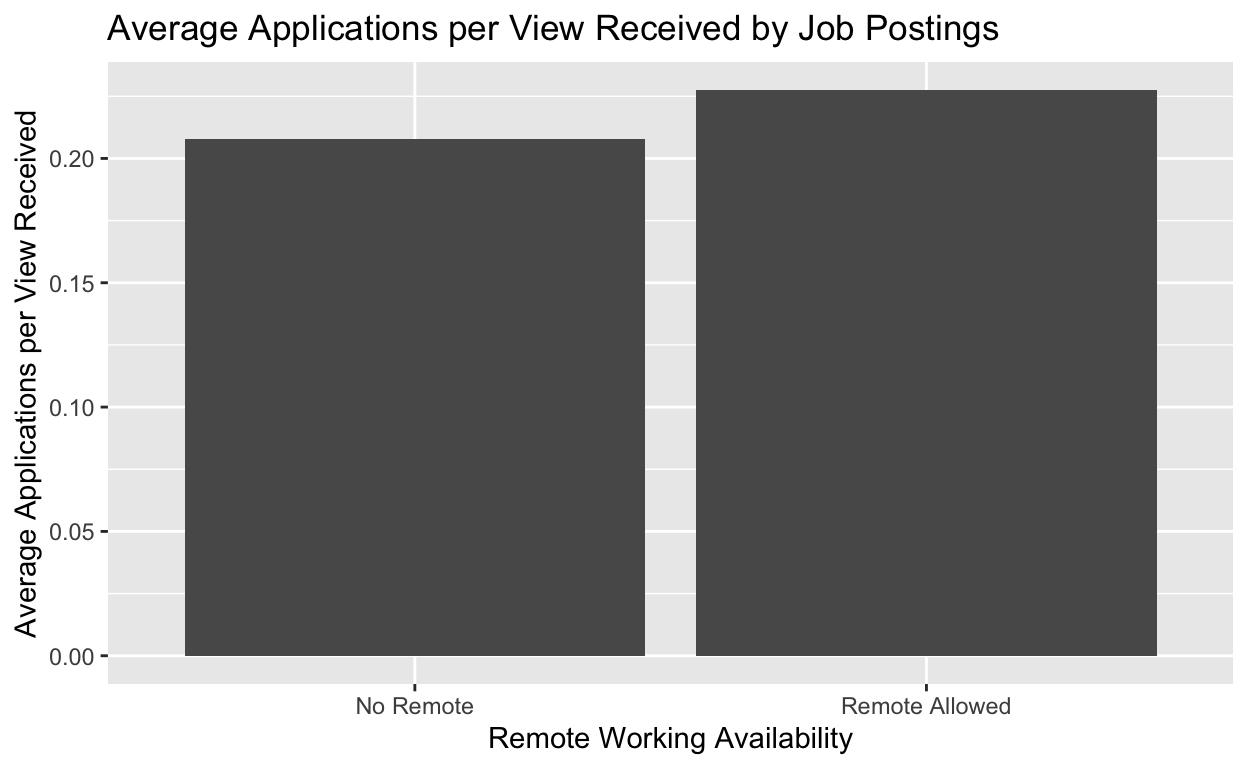
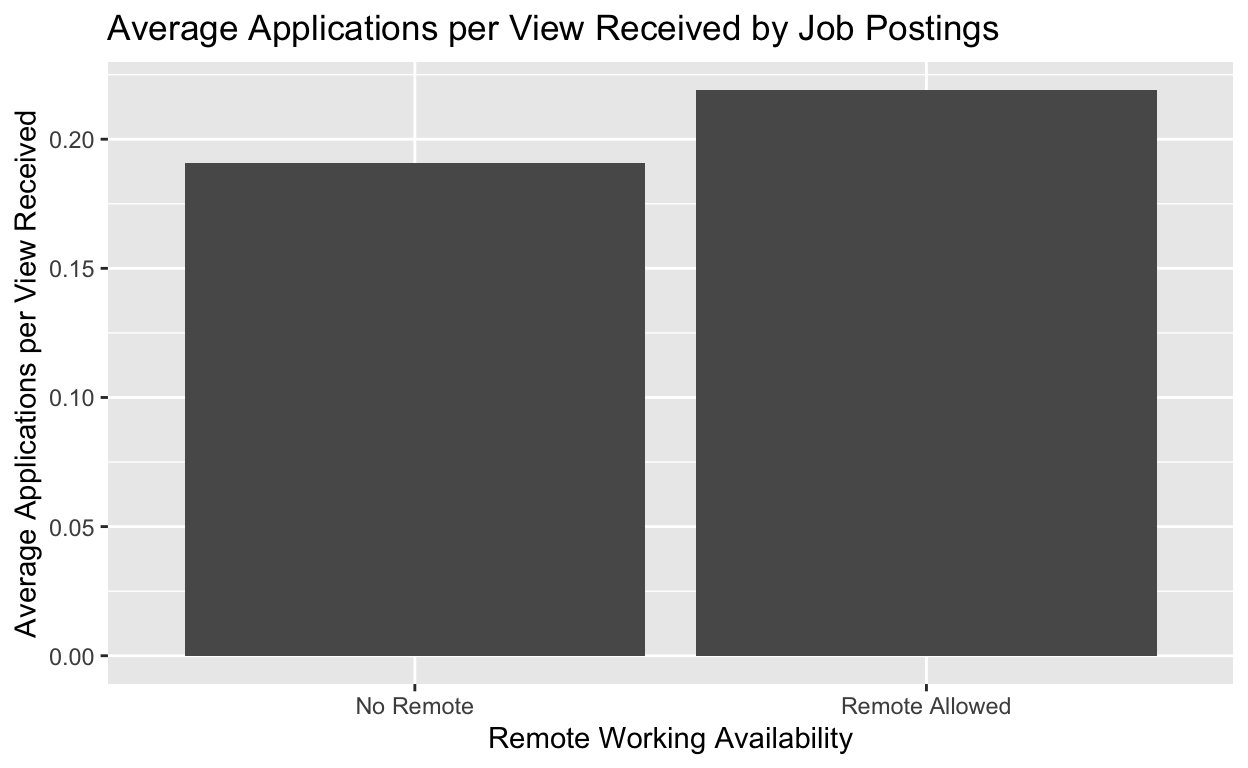
milestone 4 done

diff --git a/index.html b/index.html
@@ -1526,49 +1526,35 @@ code span.wa { color: #5e5e5e; font-style: italic; } /* Warning */
 <div class="sourceCode">
 <pre class="sourceCode r"><code class="sourceCode r"><span><span class='kw'><a href='https://rdrr.io/r/base/library.html'>library</a></span><span class='op'>(</span><span class='va'><a href='https://tidyverse.tidyverse.org'>tidyverse</a></span><span class='op'>)</span></span>
 <span><span class='kw'><a href='https://rdrr.io/r/base/library.html'>library</a></span><span class='op'>(</span><span class='va'><a href='https://readxl.tidyverse.org'>readxl</a></span><span class='op'>)</span></span>
-<span><span class='va'>job_postings</span> <span class='op'>&lt;-</span> <span class='fu'><a href='https://readxl.tidyverse.org/reference/read_excel.html'>read_excel</a></span><span class='op'>(</span><span class='st'>"~/Desktop/job_postings.xlsx"</span><span class='op'>)</span></span>
+<span><span class='va'>raw</span> <span class='op'>&lt;-</span> <span class='fu'><a href='https://readxl.tidyverse.org/reference/read_excel.html'>read_excel</a></span><span class='op'>(</span><span class='st'>"~/Desktop/job_postings.xlsx"</span><span class='op'>)</span></span>
 <span></span>
-<span><span class='va'>remote_or_not</span> <span class='op'>&lt;-</span> <span class='va'>job_postings</span> <span class='op'>|&gt;</span></span>
-<span>  <span class='fu'><a href='https://dplyr.tidyverse.org/reference/mutate.html'>mutate</a></span><span class='op'>(</span>remote_allowed <span class='op'>=</span> <span class='fu'><a href='https://dplyr.tidyverse.org/reference/if_else.html'>if_else</a></span><span class='op'>(</span><span class='fu'><a href='https://rdrr.io/r/base/NA.html'>is.na</a></span><span class='op'>(</span><span class='va'>remote_allowed</span><span class='op'>)</span>, <span class='st'>"No Remote"</span>, <span class='st'>"Remote Allowed"</span><span class='op'>)</span><span class='op'>)</span> <span class='op'>|&gt;</span></span>
-<span>  <span class='fu'><a href='https://dplyr.tidyverse.org/reference/group_by.html'>group_by</a></span><span class='op'>(</span><span class='va'>remote_allowed</span><span class='op'>)</span> <span class='op'>|&gt;</span></span>
-<span>  <span class='fu'><a href='https://tidyr.tidyverse.org/reference/drop_na.html'>drop_na</a></span><span class='op'>(</span><span class='va'>applies</span>, <span class='va'>views</span><span class='op'>)</span></span>
-<span></span>
-<span><span class='va'>remote_or_not</span> <span class='op'>|&gt;</span></span>
-<span>  <span class='fu'><a href='https://dplyr.tidyverse.org/reference/select.html'>select</a></span><span class='op'>(</span><span class='va'>job_id</span>, <span class='va'>title</span>, <span class='va'>applies</span>, <span class='va'>views</span>, <span class='va'>remote_allowed</span><span class='op'>)</span></span></code></pre>
+<span><span class='co'>## Organize data</span></span>
+<span><span class='va'>job_postings</span> <span class='op'>&lt;-</span> <span class='va'>raw</span> <span class='op'>|&gt;</span></span>
+<span>  <span class='fu'><a href='https://tidyr.tidyverse.org/reference/drop_na.html'>drop_na</a></span><span class='op'>(</span><span class='va'>min_salary</span>, <span class='va'>applies</span>, <span class='va'>views</span><span class='op'>)</span> <span class='op'>|&gt;</span></span>
+<span>  <span class='fu'><a href='https://dplyr.tidyverse.org/reference/mutate.html'>mutate</a></span><span class='op'>(</span>remote_allowed <span class='op'>=</span> <span class='fu'><a href='https://dplyr.tidyverse.org/reference/if_else.html'>if_else</a></span><span class='op'>(</span><span class='fu'><a href='https://rdrr.io/r/base/NA.html'>is.na</a></span><span class='op'>(</span><span class='va'>remote_allowed</span><span class='op'>)</span>, <span class='st'>"No Remote"</span>, <span class='st'>"Remote Allowed"</span><span class='op'>)</span>,</span>
+<span>         app_per_view <span class='op'>=</span> <span class='va'>applies</span> <span class='op'>/</span> <span class='va'>views</span>,</span>
+<span>         salary_level <span class='op'>=</span> <span class='fu'><a href='https://dplyr.tidyverse.org/reference/case_when.html'>case_when</a></span><span class='op'>(</span><span class='va'>min_salary</span> <span class='op'>&lt;=</span> <span class='fl'>60000</span> <span class='op'>~</span> <span class='st'>"Low Salary"</span>,</span>
+<span>                                  <span class='va'>min_salary</span> <span class='op'>&gt;</span> <span class='fl'>60000</span> <span class='op'>&amp;</span> <span class='va'>min_salary</span> <span class='op'>&lt;=</span> <span class='fl'>120000</span> <span class='op'>~</span> <span class='st'>"Medium Salary"</span>,</span>
+<span>                                  <span class='va'>min_salary</span> <span class='op'>&gt;</span> <span class='fl'>120000</span> <span class='op'>~</span> <span class='st'>"High Salary"</span><span class='op'>)</span><span class='op'>)</span> <span class='op'>|&gt;</span></span>
+<span>  <span class='fu'><a href='https://dplyr.tidyverse.org/reference/filter.html'>filter</a></span><span class='op'>(</span><span class='va'>pay_period</span> <span class='op'>==</span> <span class='st'>"YEARLY"</span><span class='op'>)</span></span></code></pre>
 </div>
-<pre><code># A tibble: 8,700 × 5
-# Groups:   remote_allowed [2]
-       job_id title                       applies views remote_allowed
-        &lt;dbl&gt; &lt;chr&gt;                         &lt;dbl&gt; &lt;dbl&gt; &lt;chr&gt;         
- 1  133196985 Model Risk Auditor                1    17 No Remote     
- 2  903408693 Office Associate                  5    49 No Remote     
- 3  967848246 Education Manager                45   411 Remote Allowed
- 4 1004740969 Civil Engineer                   28    82 No Remote     
- 5 1418582485 Commercial Property Manage…      10    37 No Remote     
- 6 1483357774 Video Editor                      7    40 No Remote     
- 7 1535492735 Administrative Assistant          3     5 No Remote     
- 8 2448418468 Health Information Represe…       4    14 No Remote     
- 9 2481100553 Director of Talent Acquisi…      27    81 No Remote     
-10 2634247615 Business Development Manag…       3    27 No Remote     
-# ℹ 8,690 more rows</code></pre>
 </div>
+<h2 id="visualization">Visualization</h2>
 <div class="layout-chunk" data-layout="l-body">
 <div class="sourceCode">
-<pre class="sourceCode r"><code class="sourceCode r"><span><span class='va'>plot1</span> <span class='op'>&lt;-</span> <span class='va'>remote_or_not</span> <span class='op'>|&gt;</span></span>
-<span>  <span class='fu'><a href='https://dplyr.tidyverse.org/reference/mutate.html'>mutate</a></span><span class='op'>(</span>app_per_view <span class='op'>=</span> <span class='va'>applies</span> <span class='op'>/</span> <span class='va'>views</span><span class='op'>)</span> <span class='op'>|&gt;</span></span>
+<pre class="sourceCode r"><code class="sourceCode r"><span><span class='va'>job_postings</span> <span class='op'>|&gt;</span></span>
+<span>  <span class='fu'><a href='https://dplyr.tidyverse.org/reference/group_by.html'>group_by</a></span><span class='op'>(</span><span class='va'>remote_allowed</span><span class='op'>)</span> <span class='op'>|&gt;</span> </span>
 <span>  <span class='fu'><a href='https://dplyr.tidyverse.org/reference/summarise.html'>summarize</a></span><span class='op'>(</span>mean_app_per_view <span class='op'>=</span> <span class='fu'><a href='https://rdrr.io/r/base/mean.html'>mean</a></span><span class='op'>(</span><span class='va'>app_per_view</span><span class='op'>)</span><span class='op'>)</span> <span class='op'>|&gt;</span></span>
 <span>  <span class='fu'><a href='https://ggplot2.tidyverse.org/reference/ggplot.html'>ggplot</a></span><span class='op'>(</span>mapping <span class='op'>=</span> <span class='fu'><a href='https://ggplot2.tidyverse.org/reference/aes.html'>aes</a></span><span class='op'>(</span>x <span class='op'>=</span> <span class='va'>remote_allowed</span>,</span>
 <span>                       y <span class='op'>=</span> <span class='va'>mean_app_per_view</span><span class='op'>)</span><span class='op'>)</span> <span class='op'>+</span></span>
 <span>  <span class='fu'><a href='https://ggplot2.tidyverse.org/reference/geom_bar.html'>geom_col</a></span><span class='op'>(</span><span class='op'>)</span> <span class='op'>+</span></span>
 <span>  <span class='fu'><a href='https://ggplot2.tidyverse.org/reference/labs.html'>labs</a></span><span class='op'>(</span>x <span class='op'>=</span> <span class='st'>"Remote Working Availability"</span>,</span>
 <span>       y <span class='op'>=</span> <span class='st'>"Average Applications per View Received"</span>,</span>
-<span>       title <span class='op'>=</span> <span class='st'>"Average Applications per View Received by Job Postings"</span><span class='op'>)</span></span>
-<span></span>
-<span><span class='va'>plot1</span></span></code></pre>
+<span>       title <span class='op'>=</span> <span class='st'>"Average Applications per View Received by Job Postings"</span><span class='op'>)</span></span></code></pre>
 </div>
 <p><img src="index_files/figure-html5/unnamed-chunk-2-1.png" width="624" /></p>
 </div>
-<div class="sourceCode" id="cb2"><pre class="sourceCode r distill-force-highlighting-css"><code class="sourceCode r"></code></pre></div>
+<div class="sourceCode" id="cb1"><pre class="sourceCode r distill-force-highlighting-css"><code class="sourceCode r"></code></pre></div>
 <!--radix_placeholder_article_footer-->
 <!--/radix_placeholder_article_footer-->
 </div>
